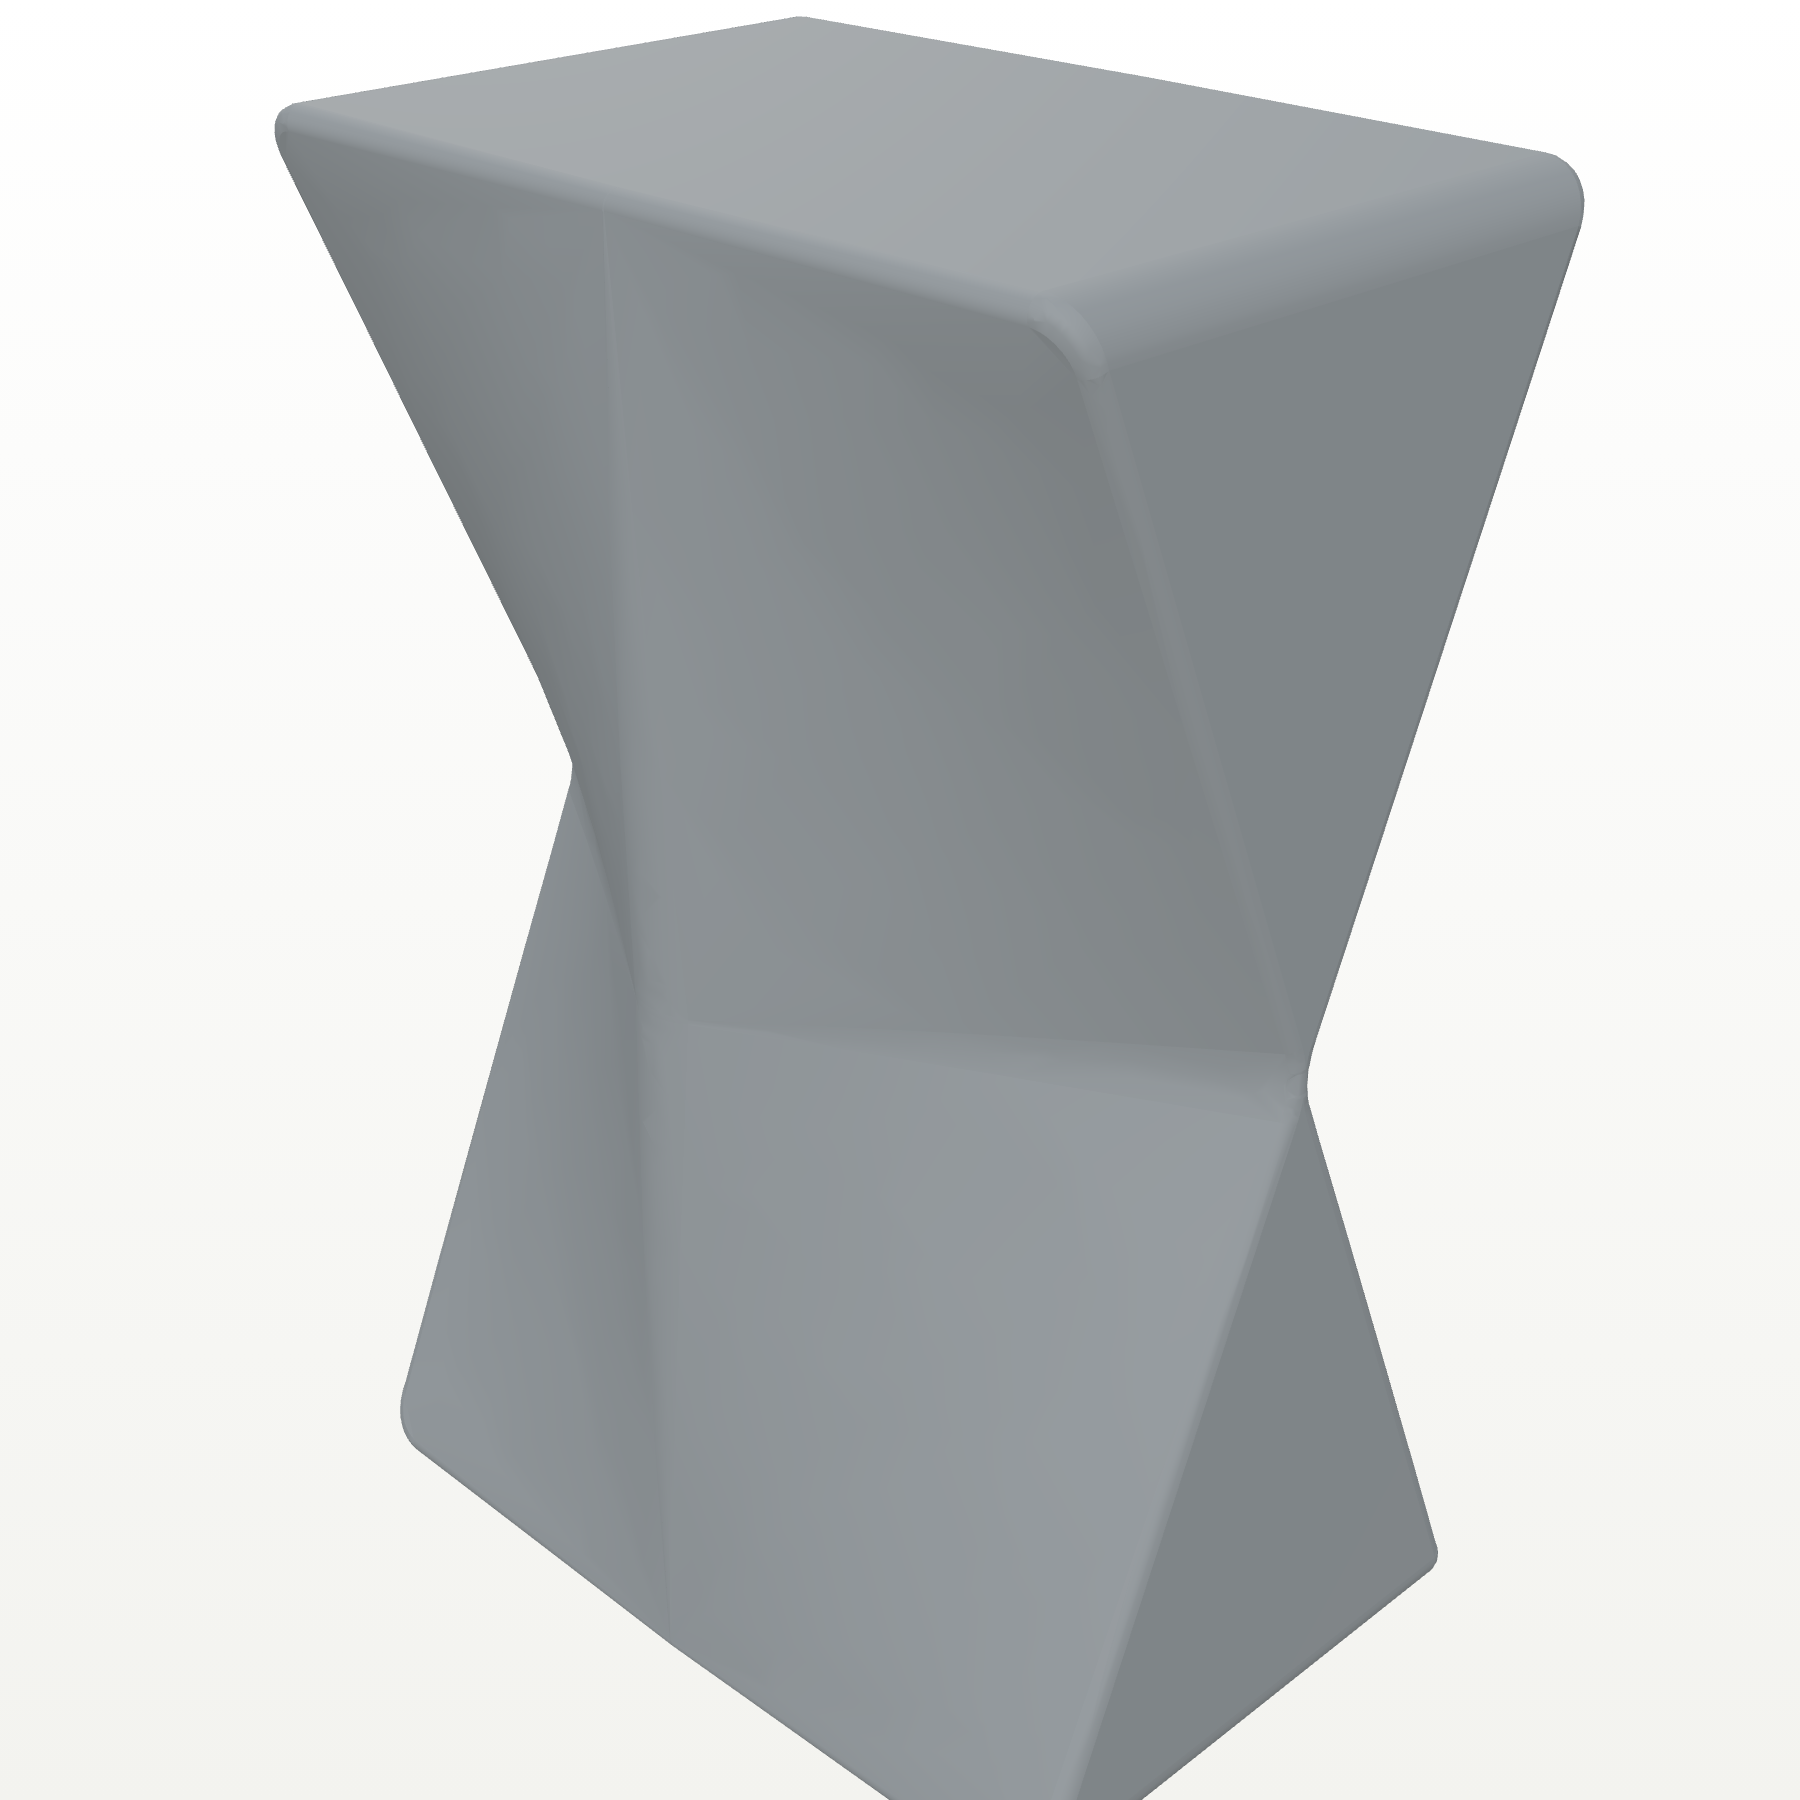
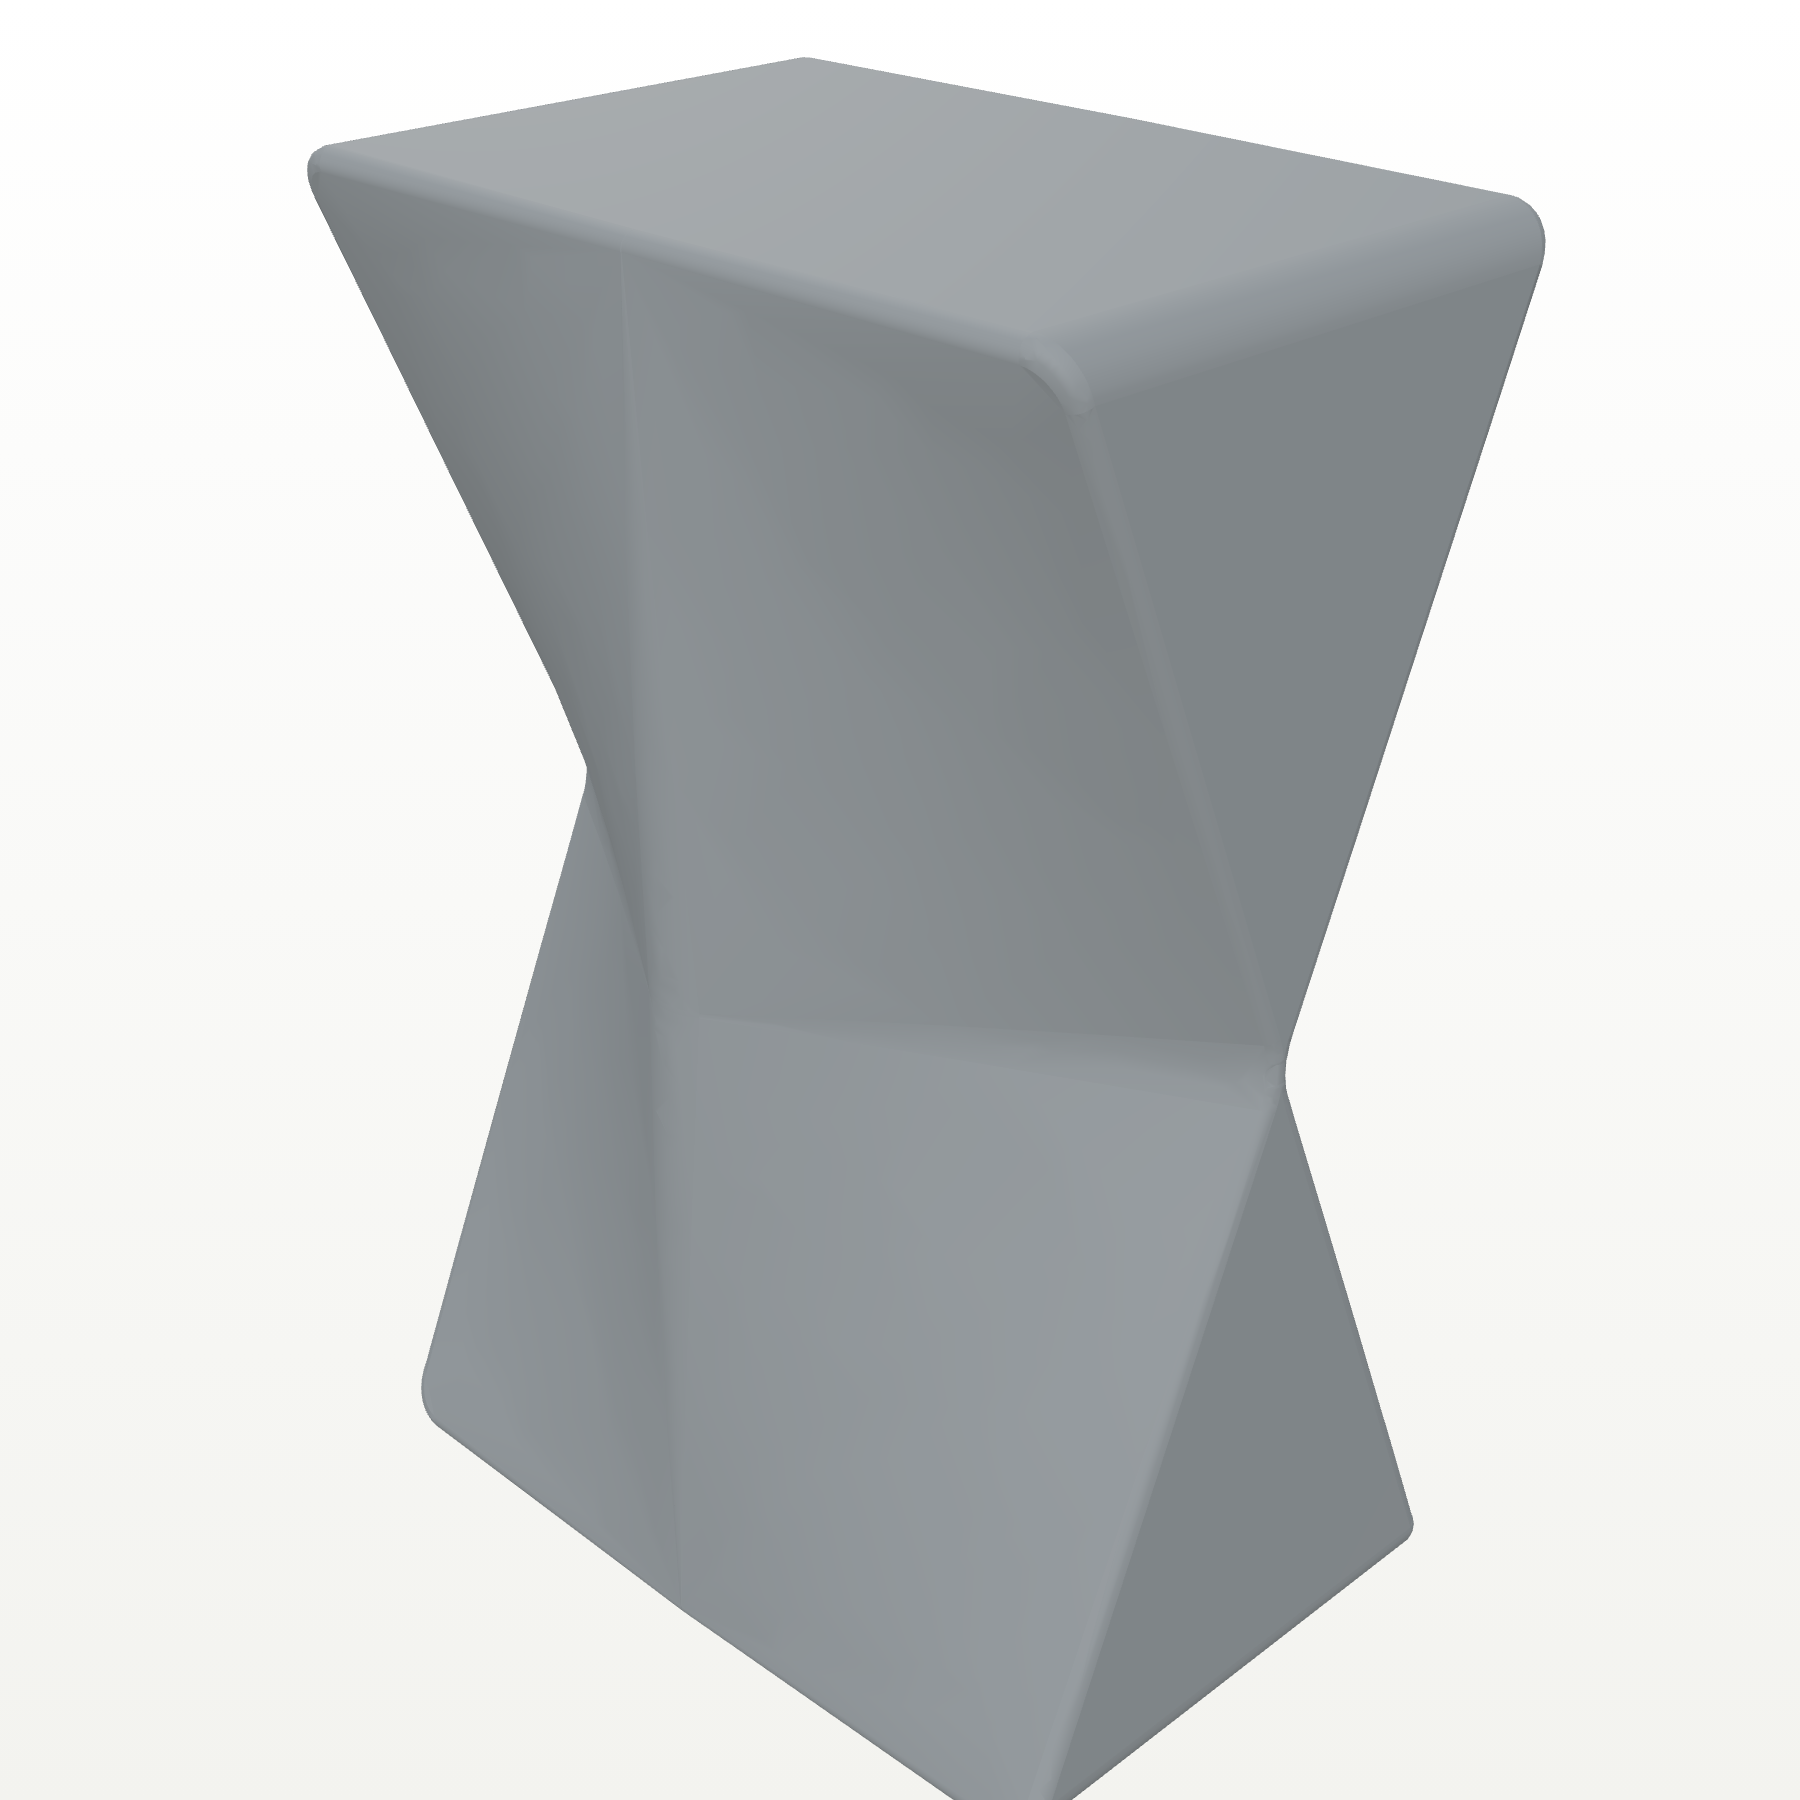
Adjust Timber Ridge thumbnail framing

diff --git a/timber-ridge-daypack-development-clean/thumbnail-viewer.html b/timber-ridge-daypack-development-clean/thumbnail-viewer.html
@@ -63,7 +63,7 @@
     const app = document.getElementById('app');
     const params = new URLSearchParams(window.location.search);
     const modelParam = params.get('model');
-    const zoom = Number(params.get('zoom') || '1.2');
+    const zoom = Number(params.get('zoom') || '1.24');
 
     const renderer = new THREE.WebGLRenderer({ antialias: true, alpha: true, preserveDrawingBuffer: true });
     renderer.setPixelRatio(Math.min(window.devicePixelRatio, 2));
